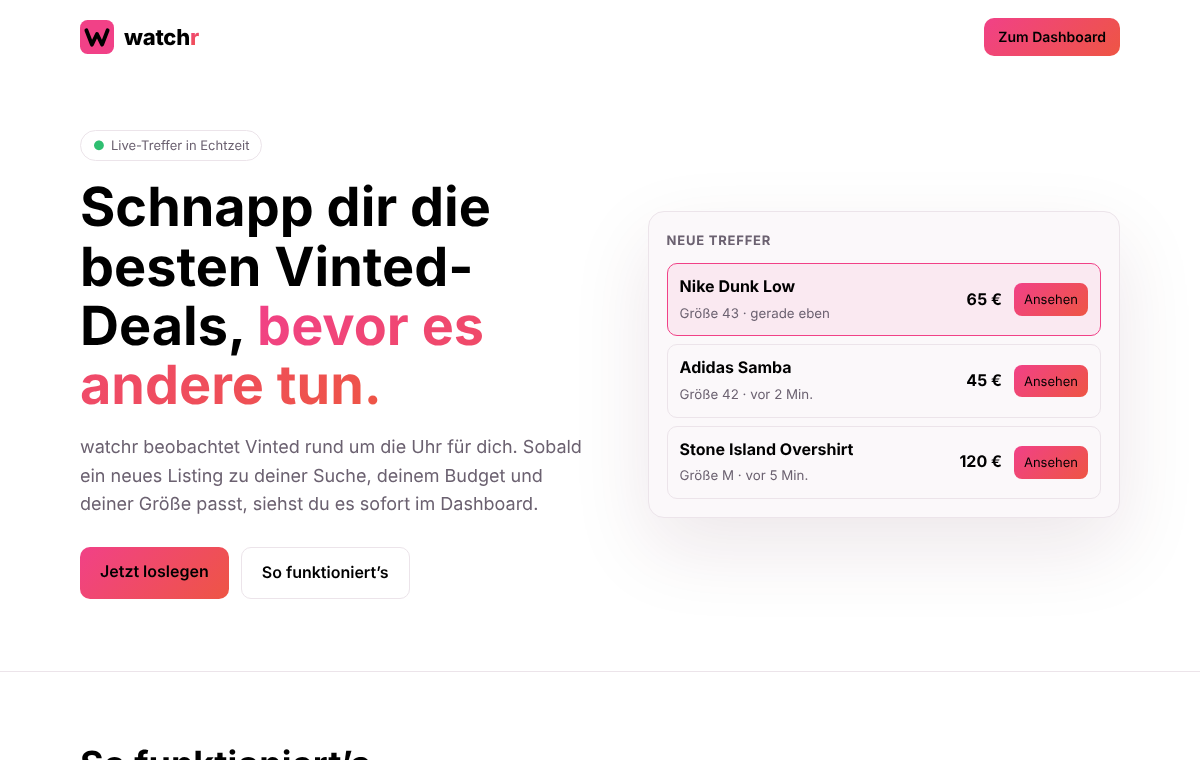
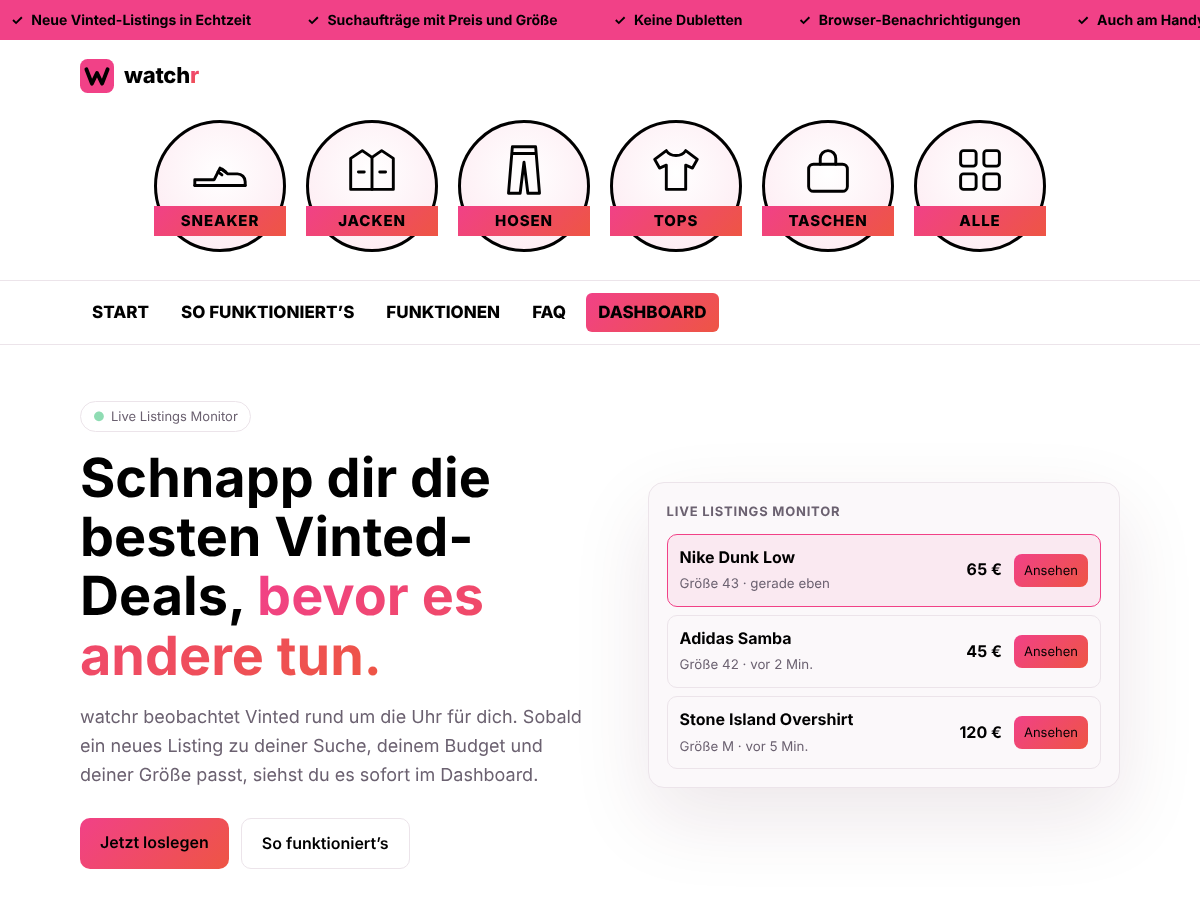
Landingpage: Laufband, Kategorie-Kreise, Menüleiste, Live Listings Monitor
Claude-Session: https://claude.ai/code/session_01Jm3EMbCc8qq6Qj2dKo6KDy

diff --git a/public/landing.html b/public/landing.html
@@ -69,18 +69,66 @@
       .grid { grid-template-columns: 1fr; }
       section { padding: 48px 0; }
     }
+    /* Laufband ganz oben */
+    .ticker { background: var(--pink); color: #000; overflow: hidden; white-space: nowrap; font-size: 14px; font-weight: 700; }
+    .ticker-track { display: inline-flex; animation: ticker 28s linear infinite; }
+    .ticker-track span { padding: 9px 28px; }
+    .ticker-track span::before { content: "✓"; margin-right: 8px; }
+    @keyframes ticker { to { transform: translateX(-50%); } }
+
+    /* Kategorie-Kreise */
+    .cats { display: flex; justify-content: center; gap: 20px; flex-wrap: wrap; padding: 8px 0 28px; }
+    .cat { position: relative; display: grid; place-items: center; width: 132px; height: 132px; border-radius: 50%;
+      border: 3px solid var(--text); background: radial-gradient(circle at 50% 40%, #fff, #fde8f0); text-decoration: none; color: #000;
+      transition: transform .2s ease, box-shadow .2s ease; }
+    .cat:hover, .cat:focus-visible { transform: translateY(-3px); box-shadow: 0 10px 24px rgba(241,65,135,.25); }
+    .cat svg { position: absolute; top: 16px; left: 50%; transform: translateX(-50%); width: 62px; height: 62px; }
+    .cat span { position: absolute; left: -3px; right: -3px; top: 66%; background: var(--grad);
+      text-align: center; font-weight: 800; font-size: 15px; letter-spacing: .06em; text-transform: uppercase; padding: 3px 0; }
+    .cat.sale { border-color: var(--pink); }
+
+    /* Menüleiste */
+    .menu { border-top: 1px solid var(--line); border-bottom: 1px solid var(--line); overflow-x: auto; }
+    .menu ul { display: flex; gap: 8px; align-items: center; list-style: none; margin: 0 auto; padding: 12px 20px; max-width: 1080px; }
+    .menu a { display: block; padding: 6px 12px; border-radius: 6px; font-weight: 800; font-size: 17px; text-transform: uppercase; text-decoration: none; white-space: nowrap; color: var(--text); }
+    .menu a:hover { background: var(--panel); }
+    .menu a.hot { background: var(--grad); color: #000; }
+
+    .pill::before { animation: blink 1.2s ease-in-out infinite; }
+    @keyframes blink { 50% { opacity: .15; } }
+    @media (prefers-reduced-motion: reduce) { .ticker-track, .pill::before { animation: none; } .cat { transition: none; } }
+    @media (max-width: 520px) { .cat { width: 96px; height: 96px; } .cat svg { top: 10px; width: 46px; height: 46px; } .cat span { font-size: 12px; } .cats { gap: 12px; } }
   </style>
 </head>
 <body>
+  <div class="ticker" role="marquee" aria-label="Neuigkeiten"><div class="ticker-track"><span>Neue Vinted-Listings in Echtzeit</span><span>Suchaufträge mit Preis und Größe</span><span>Keine Dubletten</span><span>Browser-Benachrichtigungen</span><span>Auch am Handy</span><span>Jetzt Suchauftrag anlegen</span><span aria-hidden="true">Neue Vinted-Listings in Echtzeit</span><span aria-hidden="true">Suchaufträge mit Preis und Größe</span><span aria-hidden="true">Keine Dubletten</span><span aria-hidden="true">Browser-Benachrichtigungen</span><span aria-hidden="true">Auch am Handy</span><span aria-hidden="true">Jetzt Suchauftrag anlegen</span></div></div>
   <div class="wrap">
     <nav>
       <a class="logo" href="#"><svg class="mark" aria-hidden="true" xmlns="http://www.w3.org/2000/svg" viewBox="0 0 80 80"><rect width="80" height="80" rx="18" fill="#f14187"/><path d="M15 24 L28 58 L40 33 L52 58 L65 24" fill="none" stroke="#000" stroke-width="9" stroke-linecap="round" stroke-linejoin="round"/></svg><span>watch<span class="hl">r</span></span></a>
-      <a class="btn small" href="./">Zum Dashboard</a>
     </nav>
+    <div class="cats" id="kategorien" aria-label="Kategorien">
+      <a class="cat" href="./?q=Sneaker"><svg viewBox="0 0 64 64" fill="none" stroke="#000" stroke-width="3" stroke-linejoin="round" stroke-linecap="round" aria-hidden="true"><path d="M6 42h20l6-12 8 6h10a8 8 0 0 1 8 8v4H6z"/><path d="M6 48h52"/><path d="M30 34l4 3M34 31l4 3"/></svg><span>Sneaker</span></a>
+      <a class="cat" href="./?q=Jacke"><svg viewBox="0 0 64 64" fill="none" stroke="#000" stroke-width="3" stroke-linejoin="round" stroke-linecap="round" aria-hidden="true"><path d="M22 12l10 7 10-7 12 8v32H10V20z"/><path d="M32 19v33"/><path d="M18 34h6M40 34h6"/></svg><span>Jacken</span></a>
+      <a class="cat" href="./?q=Hose"><svg viewBox="0 0 64 64" fill="none" stroke="#000" stroke-width="3" stroke-linejoin="round" stroke-linecap="round" aria-hidden="true"><path d="M20 8h24l4 48H36l-4-32-4 32H16z"/><path d="M20 15h24"/></svg><span>Hosen</span></a>
+      <a class="cat" href="./?q=Pullover"><svg viewBox="0 0 64 64" fill="none" stroke="#000" stroke-width="3" stroke-linejoin="round" stroke-linecap="round" aria-hidden="true"><path d="M22 12l-12 9 5 9 7-3v25h20V27l7 3 5-9-12-9c-3 5-7 5-10 5s-7 0-10-5z"/></svg><span>Tops</span></a>
+      <a class="cat" href="./?q=Tasche"><svg viewBox="0 0 64 64" fill="none" stroke="#000" stroke-width="3" stroke-linejoin="round" stroke-linecap="round" aria-hidden="true"><rect x="12" y="26" width="40" height="28" rx="5"/><path d="M24 26v-6a8 8 0 0 1 16 0v6"/></svg><span>Taschen</span></a>
+      <a class="cat" href="./"><svg viewBox="0 0 64 64" fill="none" stroke="#000" stroke-width="3" stroke-linejoin="round" stroke-linecap="round" aria-hidden="true"><rect x="12" y="12" width="16" height="16" rx="3"/><rect x="36" y="12" width="16" height="16" rx="3"/><rect x="12" y="36" width="16" height="16" rx="3"/><rect x="36" y="36" width="16" height="16" rx="3"/></svg><span>Alle</span></a>
+    </div>
+  </div>
+  <div class="menu">
+    <ul>
+      <li><a href="#">Start</a></li>
+      <li><a href="#so-funktionierts">So funktioniert’s</a></li>
+      <li><a href="#funktionen">Funktionen</a></li>
+      <li><a href="#faq">FAQ</a></li>
+      <li><a class="hot" href="./">Dashboard</a></li>
+    </ul>
+  </div>
+  <div class="wrap">
 
     <header class="hero">
       <div>
-        <span class="pill">Live-Treffer in Echtzeit</span>
+        <span class="pill">Live Listings Monitor</span>
         <h1>Schnapp dir die besten Vinted-Deals, <em>bevor es andere tun.</em></h1>
         <p class="lead">watchr beobachtet Vinted rund um die Uhr für dich. Sobald ein neues Listing zu deiner Suche, deinem Budget und deiner Größe passt, siehst du es sofort im Dashboard.</p>
         <div class="ctas">
@@ -90,7 +138,7 @@
       </div>
 
       <div class="preview" aria-label="Beispielansicht des Dashboards">
-        <h3>Neue Treffer</h3>
+        <h3>Live Listings Monitor</h3>
         <div class="hit new"><div><b>Nike Dunk Low</b><small>Größe 43 · gerade eben</small></div><span class="price">65 €</span><span class="go">Ansehen</span></div>
         <div class="hit"><div><b>Adidas Samba</b><small>Größe 42 · vor 2 Min.</small></div><span class="price">45 €</span><span class="go">Ansehen</span></div>
         <div class="hit"><div><b>Stone Island Overshirt</b><small>Größe M · vor 5 Min.</small></div><span class="price">120 €</span><span class="go">Ansehen</span></div>
@@ -112,7 +160,7 @@
 
   <section>
     <div class="wrap">
-      <h2>Alles, was du zum Zuschlagen brauchst</h2>
+      <h2 id="funktionen">Alles, was du zum Zuschlagen brauchst</h2>
       <p class="sub">Schlank, schnell und auf das Wesentliche reduziert.</p>
       <div class="grid">
         <div class="card"><div class="icon">⚡</div><h3>Echtzeit-Dashboard</h3><p>Treffer werden per WebSocket direkt in deinen Browser gepusht. Kein Aktualisieren, kein Warten.</p></div>
@@ -127,7 +175,7 @@
 
   <section>
     <div class="wrap">
-      <h2>Häufige Fragen</h2>
+      <h2 id="faq">Häufige Fragen</h2>
       <details><summary>Wie schnell sehe ich neue Listings?</summary><p>Der Watcher prüft deine Suchen etwa einmal pro Minute. Neue Treffer stehen danach sofort in deinem Dashboard.</p></details>
       <details><summary>Wie viele Suchaufträge kann ich anlegen?</summary><p>So viele du möchtest. Für eine schnelle Prüfung empfehlen wir aber, dich auf die Suchen zu konzentrieren, die dir wirklich wichtig sind.</p></details>
       <details><summary>Kauft der Watcher automatisch für mich?</summary><p>Nein. watchr findet die Angebote, die Entscheidung und den Kauf machst du selbst auf Vinted.</p></details>

diff --git a/public/app.js b/public/app.js
@@ -99,6 +99,14 @@ $("search-form").addEventListener("submit", async (e) => {
   }
 });
 
+// Suchbegriff aus der Landingpage übernehmen (z. B. /?q=Sneaker)
+const presetQuery = new URLSearchParams(location.search).get("q");
+if (presetQuery) {
+  const form = $("search-form");
+  form.query.value = presetQuery;
+  form.maxPrice.focus();
+}
+
 // Browser-Benachrichtigungen (optional)
 function notify(h) {
   if (!("Notification" in window) || Notification.permission !== "granted" || document.hasFocus()) return;
